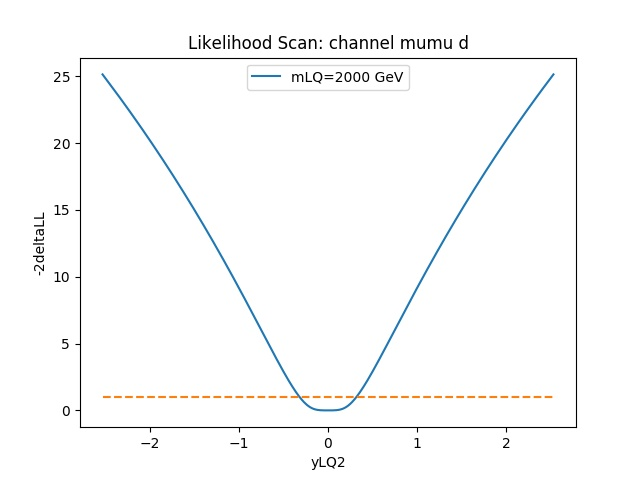
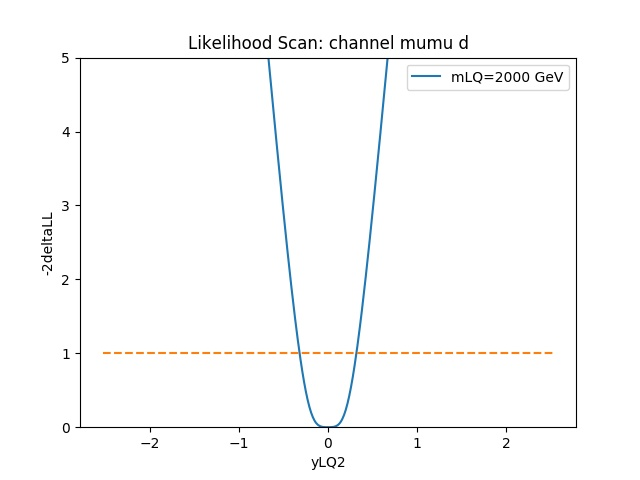
likescan w/o LQint

diff --git a/analyze/combine/AFB_fits/scripts/LQ_do_likelihood.py b/analyze/combine/AFB_fits/scripts/LQ_do_likelihood.py
@@ -88,7 +88,7 @@ if options.plot:
         respull = np.asarray(respull, dtype=float)
         poi_list = respull[:,0].tolist()
         deltaNLL = respull[:,1].tolist()
-        #plt.ylim(0,10)          
+        plt.ylim(0,5)          
         plt.plot(poi_list,deltaNLL,label='mLQ=%s GeV'%mLQ)
         plt.plot(poi_list,len(poi_list)*[1],linestyle='dashed')
         plt.xlabel("%s"%poi)
